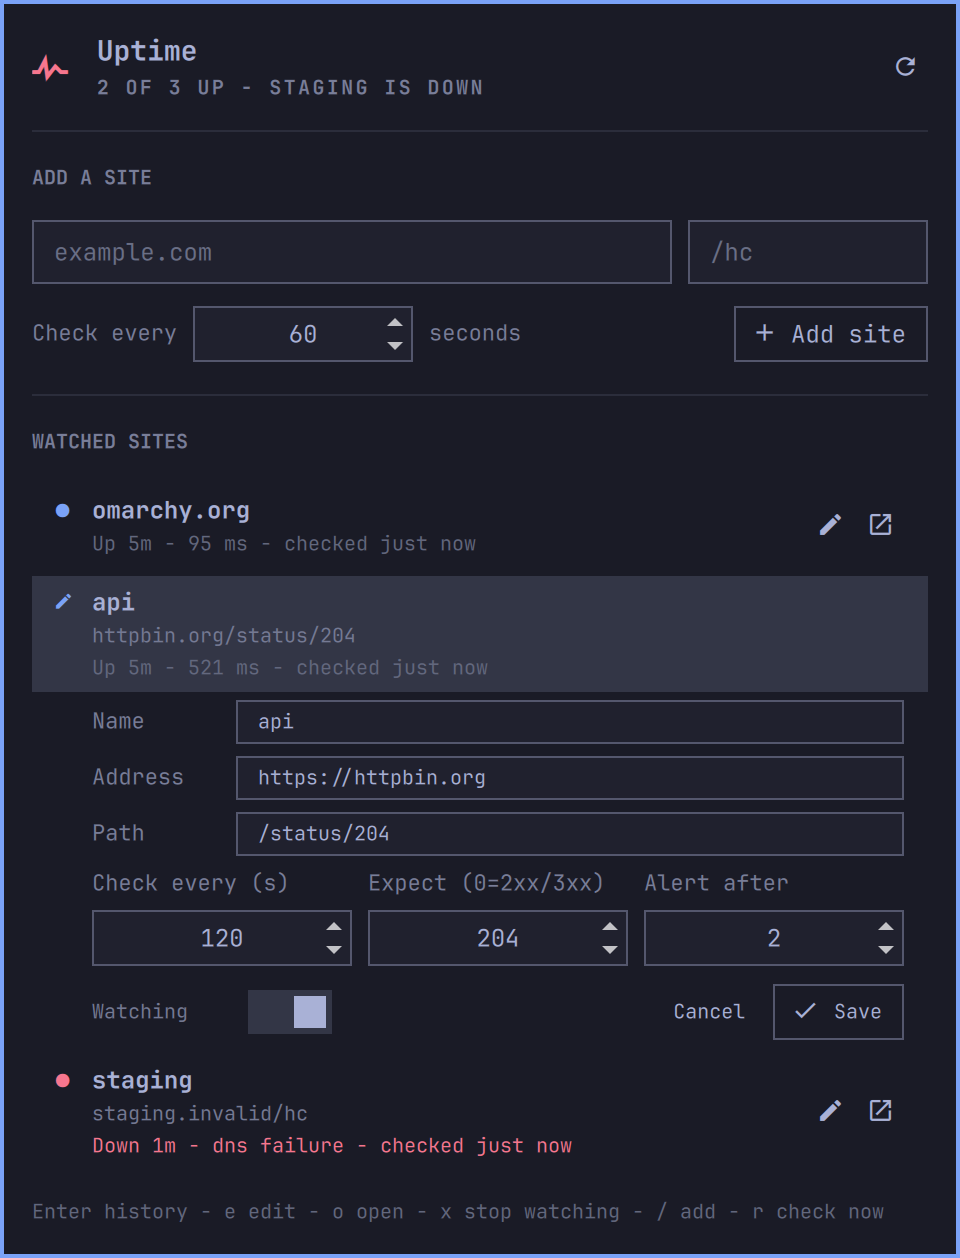
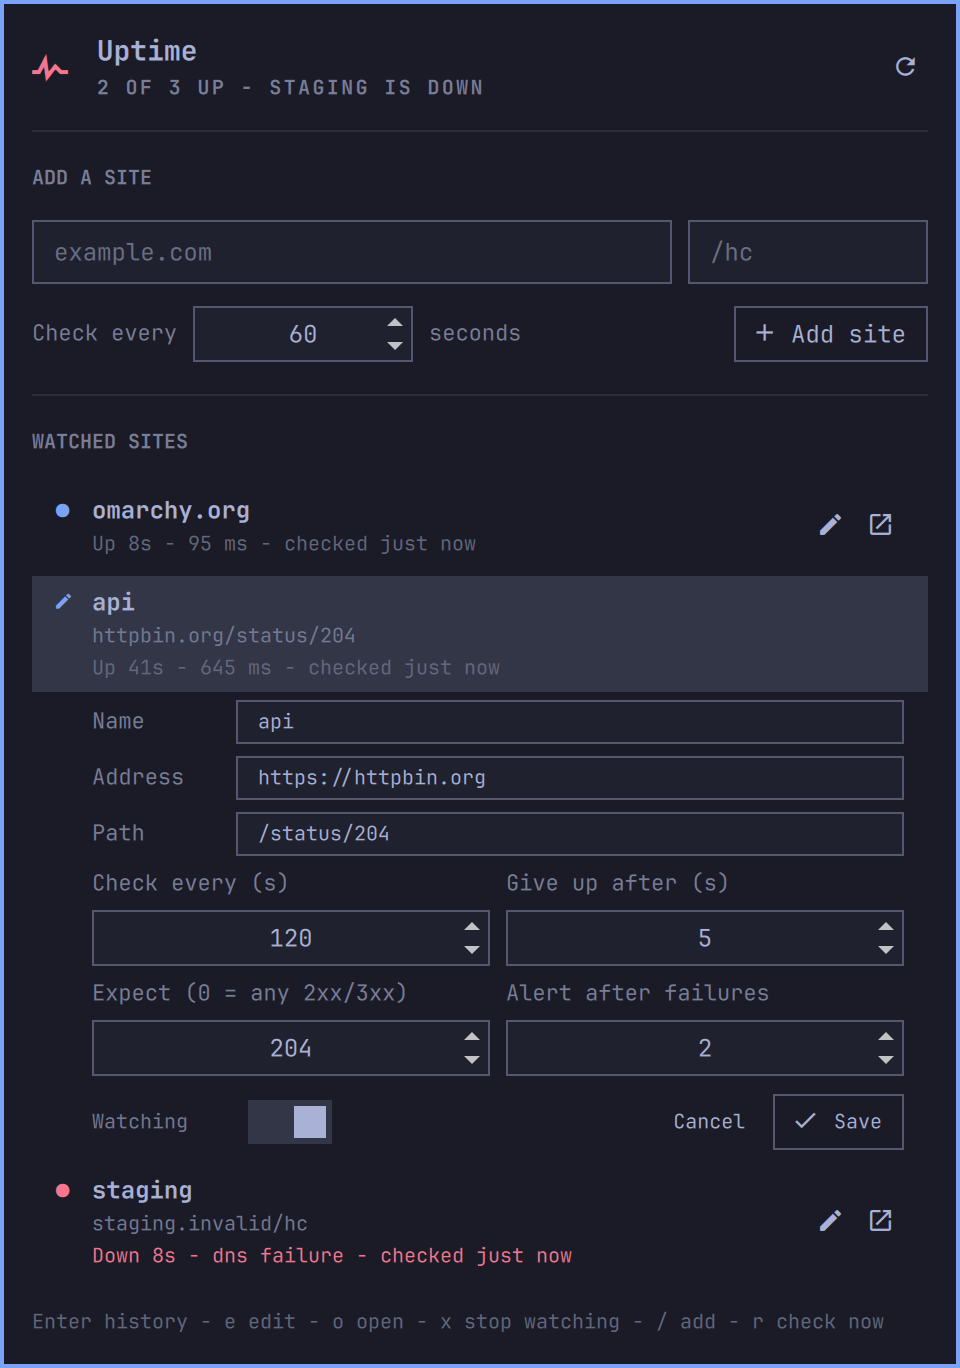
Make every field of a site editable, and accept IPv6 hosts
- timeoutSeconds was the one field of a site with no way to reach it from the
  popup; the three-across number row becomes a 2x2 grid so it fits, and the
  extra width lets the labels say what they mean ("Expect (0 = any 2xx/3xx)"
  rather than a squeezed abbreviation).
- isPlausibleHost split every host on its first colon to strip a port, which
  rejected bracketed IPv6 literals like http://[::1]:8080. Bracketed hosts are
  now judged whole. parseAddress already handled them correctly.
- Pass the URL to curl after --, so a URL can never be read as an option. The
  normalizer always prefixes a scheme, so this is defence in depth rather than
  a live hole.

diff --git a/Panel.qml b/Panel.qml
@@ -45,6 +45,7 @@ Panel {
   property string draftAddress: ""
   property string draftPath: ""
   property int draftInterval: Model.DEFAULT_INTERVAL
+  property int draftTimeout: Model.DEFAULT_TIMEOUT
   property int draftExpected: 0
   property int draftFailures: Model.DEFAULT_FAILURES
   property bool draftEnabled: true
@@ -137,6 +138,7 @@ Panel {
     root.draftAddress = site.origin
     root.draftPath = site.path
     root.draftInterval = site.intervalSeconds
+    root.draftTimeout = site.timeoutSeconds
     root.draftExpected = site.expectedStatus
     root.draftFailures = site.failuresBeforeAlert
     root.draftEnabled = site.enabled !== false
@@ -162,6 +164,7 @@ Panel {
       origin: root.draftAddress,
       path: root.draftPath,
       intervalSeconds: root.draftInterval,
+      timeoutSeconds: root.draftTimeout,
       expectedStatus: root.draftExpected,
       failuresBeforeAlert: root.draftFailures,
       enabled: root.draftEnabled
@@ -827,16 +830,19 @@ Panel {
                     }
                   }
 
-                  // Equal thirds rather than content widths: the group then
-                  // ends on the same vertical as the three fields above it
-                  // instead of stopping wherever its last spinbox happens to.
-                  Row {
-                    id: numberRow
+                  // Two columns rather than four across: every field a site
+                  // has is editable here, and half the popup width leaves the
+                  // labels room to say what they mean. The grid ends on the
+                  // same vertical as the text fields above it.
+                  Grid {
+                    id: numberGrid
                     width: parent.width
-                    spacing: Style.spacing.controlGap
+                    columns: 2
+                    columnSpacing: Style.spacing.controlGap
+                    rowSpacing: Style.spacing.md
 
                     readonly property real cellWidth:
-                      (width - spacing * 2) / 3
+                      (width - columnSpacing) / 2
 
                     NumberField {
                       id: intervalField
@@ -845,31 +851,43 @@ Panel {
                       from: Model.MIN_INTERVAL
                       to: Model.MAX_INTERVAL
                       stepSize: 10
-                      fieldWidth: numberRow.cellWidth
+                      fieldWidth: numberGrid.cellWidth
                       foreground: root.foreground
                       fontFamily: root.fontFamily
                       onModified: function(next) { root.draftInterval = next }
                     }
 
                     NumberField {
-                      label: "Expect (0=2xx/3xx)"
+                      label: "Give up after (s)"
+                      value: root.draftTimeout
+                      from: Model.MIN_TIMEOUT
+                      to: Model.MAX_TIMEOUT
+                      stepSize: 1
+                      fieldWidth: numberGrid.cellWidth
+                      foreground: root.foreground
+                      fontFamily: root.fontFamily
+                      onModified: function(next) { root.draftTimeout = next }
+                    }
+
+                    NumberField {
+                      label: "Expect (0 = any 2xx/3xx)"
                       value: root.draftExpected
                       from: 0
                       to: 599
                       stepSize: 1
-                      fieldWidth: numberRow.cellWidth
+                      fieldWidth: numberGrid.cellWidth
                       foreground: root.foreground
                       fontFamily: root.fontFamily
                       onModified: function(next) { root.draftExpected = next }
                     }
 
                     NumberField {
-                      label: "Alert after"
+                      label: "Alert after failures"
                       value: root.draftFailures
                       from: 1
-                      to: 10
+                      to: Model.MAX_FAILURES
                       stepSize: 1
-                      fieldWidth: numberRow.cellWidth
+                      fieldWidth: numberGrid.cellWidth
                       foreground: root.foreground
                       fontFamily: root.fontFamily
                       onModified: function(next) { root.draftFailures = next }

diff --git a/tests/model.test.js b/tests/model.test.js
@@ -21,6 +21,12 @@ assert.deepStrictEqual(Model.parseAddress("HTTPS://Example.COM/HC"), {
   path: "/HC"
 })
 assert.deepStrictEqual(Model.parseAddress("   "), { origin: "", path: "" })
+// An IPv6 literal keeps its brackets and its port
+assert.deepStrictEqual(Model.parseAddress("http://[::1]:8080/hc"), {
+  origin: "http://[::1]:8080",
+  path: "/hc"
+})
+assert.strictEqual(Model.validate("http://[::1]:8080", "/hc", 60, [], ""), "")
 
 assert.strictEqual(Model.normalizePath("hc"), "/hc")
 assert.strictEqual(Model.normalizePath("/hc/"), "/hc")
@@ -31,6 +37,9 @@ assert.strictEqual(Model.normalizePath("?probe=1"), "?probe=1")
 assert.strictEqual(Model.isPlausibleHost("example.com"), true)
 assert.strictEqual(Model.isPlausibleHost("localhost:3000"), true)
 assert.strictEqual(Model.isPlausibleHost("127.0.0.1"), true)
+assert.strictEqual(Model.isPlausibleHost("[::1]:8080"), true)
+assert.strictEqual(Model.isPlausibleHost("[fe80::1]"), true)
+assert.strictEqual(Model.isPlausibleHost("["), false)
 assert.strictEqual(Model.isPlausibleHost("not a host"), false)
 assert.strictEqual(Model.isPlausibleHost("nodots"), false)
 

diff --git a/Model.js b/Model.js
@@ -96,6 +96,9 @@ function isPlausibleHost(host) {
   var text = clean(host).toLowerCase()
   if (text === "") return false
   if (text.indexOf(" ") !== -1) return false
+  // A bracketed IPv6 literal carries colons of its own, so it is judged whole
+  // rather than split on the first colon the way a host:port pair is.
+  if (text.charAt(0) === "[") return text.indexOf("]") > 1
   var bare = text.split(":")[0]
   return bare.indexOf(".") !== -1 || bare === "localhost" || /^\d+(\.\d+){3}$/.test(bare)
 }
@@ -621,6 +624,9 @@ if (typeof module !== "undefined") {
     DEFAULT_FAILURES: DEFAULT_FAILURES,
     MIN_INTERVAL: MIN_INTERVAL,
     MAX_INTERVAL: MAX_INTERVAL,
+    MIN_TIMEOUT: MIN_TIMEOUT,
+    MAX_TIMEOUT: MAX_TIMEOUT,
+    MAX_FAILURES: MAX_FAILURES,
     MAX_OUTAGES: MAX_OUTAGES,
     clean: clean,
     normalizePath: normalizePath,

diff --git a/README.md b/README.md
@@ -70,10 +70,11 @@ outage marked as such.
 
 ### Edit mode
 
-The pencil opens the whole site: its name, its address, its health check path,
-how often it is checked, which status code counts as healthy, how many
-failures in a row count as an outage, and whether it is watched at all.
-Nothing is written until you hit Save, and Escape cancels.
+The pencil opens every field a site has: its name, its address, its health
+check path, how often it is checked, how long a check may take before it
+counts as a failure, which status code counts as healthy, how many failures in
+a row count as an outage, and whether it is watched at all. Nothing is written
+until you hit Save, and Escape cancels.
 
 ![Edit mode, with every field of a site](docs/edit-mode.png)
 

diff --git a/CHANGELOG.md b/CHANGELOG.md
@@ -5,8 +5,8 @@
 - First release: watch a list of sites from the Omarchy bar, with an optional
   health check path per site and its own check interval per site.
 - Edit mode per site behind the pencil button (or `e`): name, address, path,
-  interval, expected status, failure threshold, and paused state, with Save and
-  Cancel and nothing written until you save.
+  interval, timeout, expected status, failure threshold, and paused state, with
+  Save and Cancel and nothing written until you save.
 - Desktop notification when a site goes down and when it comes back; clicking
   either opens the site. A site is only down after a configurable number of
   consecutive failures, so one flaky check never alerts.
